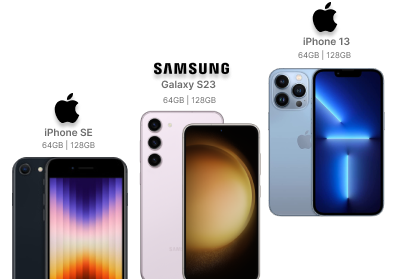
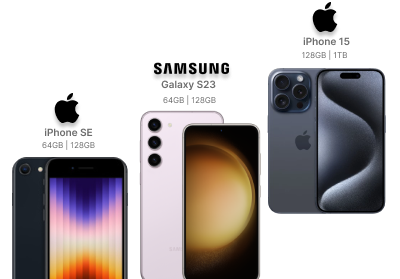
add new iphone 15 to list

Changed region(s): [[0.66, 0.172, 0.99, 0.8029]]

diff --git a/src/app/ios/pandiflow.js b/src/app/ios/pandiflow.js
@@ -1,0 +1,330 @@
+const phones = [
+    {
+        name: "iPhone 15 Pro Max",
+        img: "iosP/ip15proMax.png",
+        description: "Desbloqueado 2 Meses de Garantia",
+        price: "48,000'"
+    },
+    {
+        name: "iPhone 15 Pro",
+        img: "iosP/ip15pro.png",
+        description: "Desbloqueado 2 Meses de Garantia",
+        price: "39,000'"
+    },
+    {
+        name: "iPhone 15 Plus",
+        img: "iosP/ip15plus.png",
+        description: "Desbloqueado 2 Meses de Garantia",
+        price: "25,000'"
+    },
+    {
+        name: "iPhone 15",
+        img: "iosP/ip15.png",
+        description: "Desbloqueado 2 Meses de Garantia",
+        price: "25,000'"
+    },
+    {
+        name: "iPhone 14 Pro Max",
+        img: "iosP/ip14promax.png",
+        description: "Desbloqueado 2 Meses de Garantia",
+        price: "48,000'"
+    },
+    {
+        name: "iPhone 14 Pro",
+        img: "iosP/ip14pro.png",
+        description: "Desbloqueado 2 Meses de Garantia",
+        price: "39,000'"
+    },
+    {
+        name: "iPhone 14",
+        img: "iosP/ip14.png",
+        description: "Desbloqueado 2 Meses de Garantia",
+        price: "25,000'"
+    },
+    {
+        name: "iPhone 13 Pro Max",
+        img: "iosP/ip13promax.png",
+        description: "Desbloqueado 2 Meses de Garantia",
+        price: "35,000'"
+    },
+    {
+        name: "iPhone 13 Pro",
+        img: "iosP/ip13pro.png",
+        description: "Desbloqueado 2 Meses de Garantia",
+        price: "29,000'"
+    },
+    {
+        name: "iPhone 13",
+        img: "iosP/ip13.png",
+        description: "Desbloqueado 2 Meses de Garantia",
+        price: "25,000'"
+    },
+    {
+        name: "iPhone 12 Pro Max  ",
+        img: "iosP/ip12promax.png",
+        description: "Desbloqueado 2 Meses de Garantia",
+        price: "22,000'"
+    },
+    {
+        name: "iPhone 12 Pro  ",
+        img: "iosP/ip12pro.png",
+        description: "Desbloqueado 2 Meses de Garantia",
+        price: "17,000'"
+    },
+    {
+        name: "iPhone 12  ",
+        img: "iosP/ip12.png",
+        description: "Desbloqueado 2 Meses de Garantia",
+        price: "1,000'"
+    },
+    {
+        name: "iPhone 11 Pro Max ",
+        img: "iosP/ip11promax.png",
+        description: "Desbloqueado 2 Meses de Garantia",
+        price: "18,000'"
+    },
+    {
+        name: "iPhone 11 Pro ",
+        img: "iosP/ip11pro.png",
+        description: "Desbloqueado 2 Meses de Garantia",
+        price: "15,000'"
+    },
+    {
+        name: "iPhone 11 ",
+        img: "iosP/ip11.png",
+        description: "Desbloqueado 2 Meses de Garantia",
+        price: "13,000'"
+    },
+    {
+        name: "iPhone XS Max ",
+        img: "iosP/ip10xsmax.png",
+        description: "Desbloqueado 2 Meses de Garantia",
+        price: "12,000'"
+    },
+    {
+        name: "iPhone XS ",
+        img: "iosP/ip10xs.png",
+        description: "Desbloqueado 2 Meses de Garantia",
+        price: "9,000'"
+    },
+    {
+        name: "iPhone X ",
+        img: "iosP/ip10.png",
+        description: "Desbloqueado 2 Meses de Garantia",
+        price: "8,500'"
+    }
+];
+
+const macbooks = [
+    {
+        name: "MacBook Pro M2 Pro Chip",
+        img: "iosP/mac/mac14pro.png",
+        description: "Tableta potente",
+        price: "30,000'"
+    },
+    {
+        name: "13-inch MacBook Pro with M2 chip",
+        img: "iosP/mac/mac13pro.png",
+        description: "Tableta potente",
+        price: "30,000'"
+    },
+    {
+        name: "MacBook Air 15-Inch",
+        img: "iosP/mac/macAir.png",
+        description: "Tableta potente",
+        price: "30,000'"
+    },
+];
+
+const ipads = [
+    {
+        name: "ipad pro (6 gen)",
+        img: "iosP/ipad/ipad6.png",
+        description: "Tableta potente",
+        price: "30,000'"
+    },
+    {
+        name: "ipad air (5 gen)",
+        img: "iosP/ipad/ipad5.png",
+        description: "Tableta potente",
+        price: "30,000'"
+    },
+    {
+        name: "ipad (10 gen)",
+        img: "iosP/ipad/ipad10.png",
+        description: "Tableta potente",
+        price: "30,000'"
+    },
+    // ... (otros iPads)
+];
+
+
+const samsungphones = [
+    {
+        name: "Samsung s23 ultra",
+        img: "smP/sm23ultra.png",
+        description: "Desbloqueado 2 Meses de Garantia",
+        price: "48,000"
+    },
+    {
+        name: "Samsung s23",
+        img: "smP/sm23.png",
+        description: "Desbloqueado 2 Meses de Garantia",
+        price: "39,000"
+    },
+    {
+        name: "Samsung galaxy flip z",
+        img: "smP/smflipz.png",
+        description: "Desbloqueado 2 Meses de Garantia",
+        price: "25,000"
+    },
+    {
+        name: "Samsung galaxy flip z fold 2",
+        img: "smP/smflipzfold.png",
+        description: "Desbloqueado 2 Meses de Garantia",
+        price: "35,000'"
+    },
+
+    {
+        name: "samsung A04E",
+        img: "smP/smA04E.png",
+        description: "Desbloqueado 2 Meses de Garantia",
+        price: "5,350"
+    },
+    {
+        name: "samsung A04",
+        img: "smP/smA04.png",
+        description: "Desbloqueado 2 Meses de Garantia",
+        price: "6,100"
+    },
+    {
+        name: "samsung A14",
+        img: "smP/smA14.png",
+        description: "Desbloqueado 2 Meses de Garantia",
+        price: "7,150"
+    },
+    {
+        name: "Samsung Galaxy S10 Plus",
+        img: "smP/smS10plus.png",
+        description: "Desbloqueado 2 Meses de Garantia",
+        price: "10,250"
+    },
+    {
+        name: "Samsung Galaxy A34 5G",
+        img: "smP/smGA34.png",
+        description: "Desbloqueado 2 Meses de Garantia",
+        price: "13,950"
+    },
+    {
+        name: "Samsung Galaxy A54 5G",
+        img: "smP/smGA54.png",
+        description: "Desbloqueado 2 Meses de Garantia",
+        price: "15,850"
+    },
+];
+
+
+const redmiPhones = [
+    {
+        name: "REDMI 12C",
+        img: "otrosP/remi12c.png",
+        description: "Desbloqueado 2 Meses de Garantia",
+        price: "5,500"
+    },
+    {
+        name: "REDMI 12",
+        img: "otrosP/remi12.png",
+        description: "Desbloqueado 2 Meses de Garantia",
+        price: "7,100"
+    },
+    {
+        name: "REDMI NOTE 12",
+        img: "otrosP/remiN12.png",
+        description: "Desbloqueado 2 Meses de Garantia",
+        price: "7,900"
+    },
+    {
+        name: "REDMI NOTE 12s",
+        img: "otrosP/remiN12s.png",
+        description: "Desbloqueado 2 Meses de Garantia",
+        price: "10,050"
+    },
+    {
+        name: "REDMI NOTE 12 PRO",
+        img: "otrosP/remiN12pro.png",
+        description: "Desbloqueado 2 Meses de Garantia",
+        price: "12,900"
+    },
+    {
+        name: "REDMI NOTE 11 PRO",
+        img: "otrosP/remiN11pro.png",
+        description: "Desbloqueado 2 Meses de Garantia",
+        price: "12,500"
+    }
+];
+
+const amazonProducts = [
+    {
+        name: "Echo dot 4",
+        img: "otrosP/amz4.png",
+        description: "Desbloqueado 2 Meses de Garantia",
+        price: "5,500"
+    },
+    {
+        name: "Echo dot 3",
+        img: "otrosP/amz3.png",
+        description: "Desbloqueado 2 Meses de Garantia",
+        price: "7,100"
+    },
+    {
+        name: "Fire tv stick 4k",
+        img: "otrosP/amzFire.png",
+        description: "Desbloqueado 2 Meses de Garantia",
+        price: "7,900"
+    }
+]
+
+const certificados = [
+    {
+        name: "Apple watch series 8",
+        img: "otrosP/certified/apW8.png",
+        description: "Desbloqueado 2 Meses de Garantia",
+        price: "5,500"
+    },
+    {
+        name: "Apple watch se",
+        img: "otrosP/certified/apWse.png",
+        description: "Desbloqueado 2 Meses de Garantia",
+        price: "5,500"
+    },
+    {
+        name: "AirPods Pro (2.ª gen)",
+        img: "otrosP/certified/apApro.png",
+        description: "Desbloqueado 2 Meses de Garantia",
+        price: "5,500"
+    },
+    {
+        name: "AirPods (3.ª gen)",
+        img: "otrosP/certified/apA3.png",
+        description: "Desbloqueado 2 Meses de Garantia",
+        price: "5,500"
+    },
+    {
+        name: "AirPods (2.ª gen)",
+        img: "otrosP/certified/apA2.png",
+        description: "Desbloqueado 2 Meses de Garantia",
+        price: "5,500"
+    },
+    {
+        name: "Cable usb c a lightning",
+        img: "otrosP/certified/apCc.png",
+        description: "Desbloqueado 2 Meses de Garantia",
+        price: "5,500"
+    },
+    {
+        name: "usb c brick",
+        img: "otrosP/certified/apC.png",
+        description: "Desbloqueado 2 Meses de Garantia",
+        price: "5,500"
+    },
+]

diff --git a/src/app/page.tsx b/src/app/page.tsx
@@ -21,6 +21,18 @@ export default function Home() {
 
   const devices = [ 
     {
+      name: "iPhone 15 Pro Max",
+      img: "iosP/ip15proMax.png",
+      description: "Desbloqueado 2 Meses de Garantia",
+      price: "48,000'"
+    },
+    {
+      name: "iPhone 15 Plus",
+      img: "iosP/ip15plus.png",
+      description: "Desbloqueado 2 Meses de Garantia",
+      price: "25,000'"
+    },
+    {
       name: "iPhone 14 Pro Max",
       img: "iosP/ip14promax.png",
       description: "Desbloqueado 2 Meses de Garantia",
@@ -124,8 +136,13 @@ export default function Home() {
                   <div className="flex flex-col gap-6">
                     <Link href={'ios'} className='
                       w-fit text-white font-semibold text-lg p-2 pl-5 shadow-lg shadow-gray-700 pr-8 bg-ligthGray rounded-r-full
-                      border-r-2 border-t-2 border-b-2 border-mainPurple
-                    '>
+                      border-r-2 border-t-2 border-b-2 
+                    '
+                    style={{
+                      borderBlockColor: "#CDB7A9",
+                      borderRightColor: "#CDB7A9"
+                    }}
+                    >
                       Ver mas
                     </Link >
                     <img src="sideLPhone.png" alt="" className='translate-y-0 slideTop'/>

diff --git a/src/app/ios/page.tsx b/src/app/ios/page.tsx
@@ -12,6 +12,30 @@ export default function Ios() {
 
   const phones = [
     {
+      name: "iPhone 15 Pro Max",
+      img: "iosP/ip15proMax.png",
+      description: "Desbloqueado 2 Meses de Garantia",
+      price: "48,000'"
+    },
+    {
+      name: "iPhone 15 Pro",
+      img: "iosP/ip15pro.png",
+      description: "Desbloqueado 2 Meses de Garantia",
+      price: "39,000'"
+    },
+    {
+      name: "iPhone 15 Plus",
+      img: "iosP/ip15plus.png",
+      description: "Desbloqueado 2 Meses de Garantia",
+      price: "25,000'"
+    },
+    {
+      name: "iPhone 15",
+      img: "iosP/ip15.png",
+      description: "Desbloqueado 2 Meses de Garantia",
+      price: "25,000'"
+    },
+    {
       name: "iPhone 14 Pro Max",
       img: "iosP/ip14promax.png",
       description: "Desbloqueado 2 Meses de Garantia",
